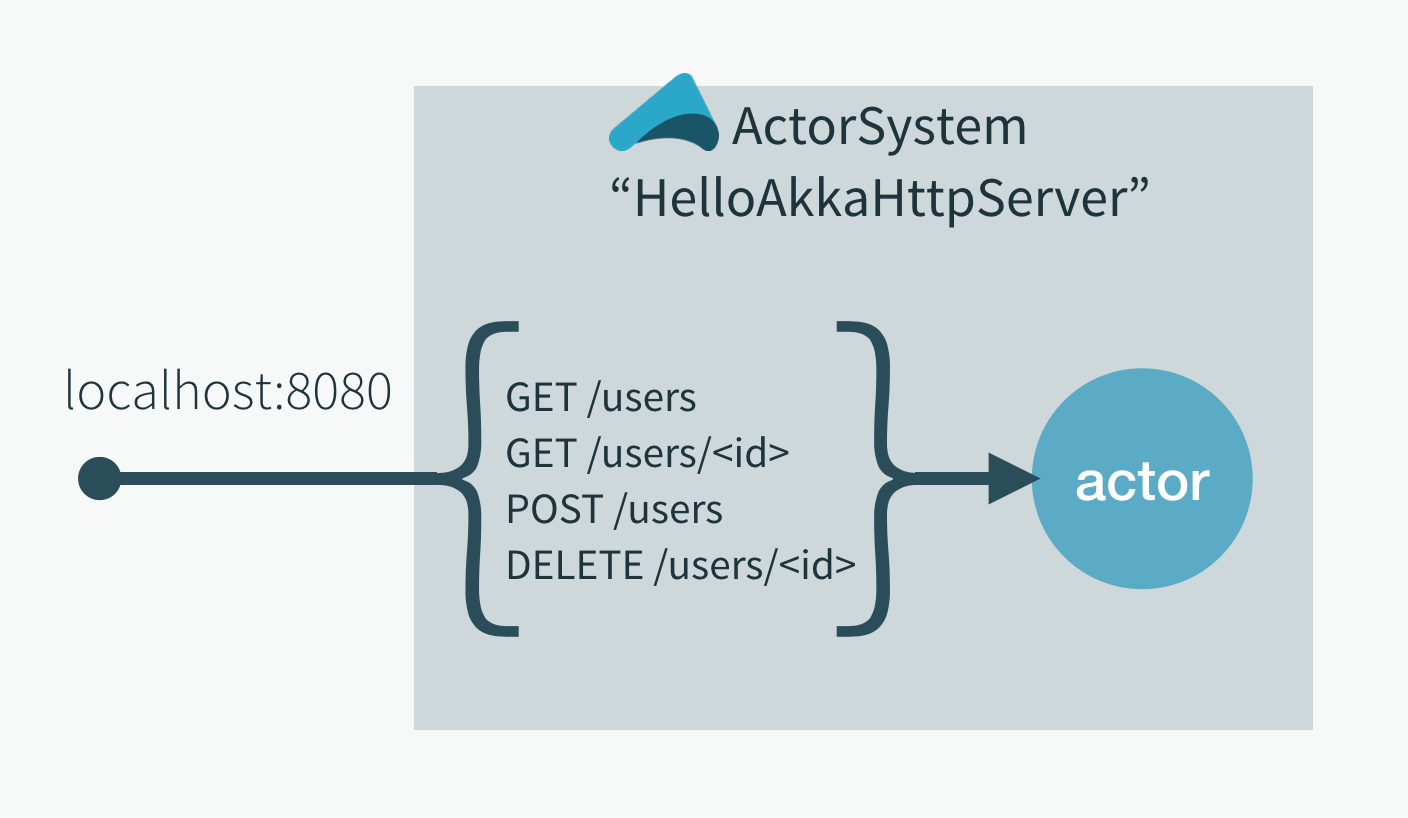
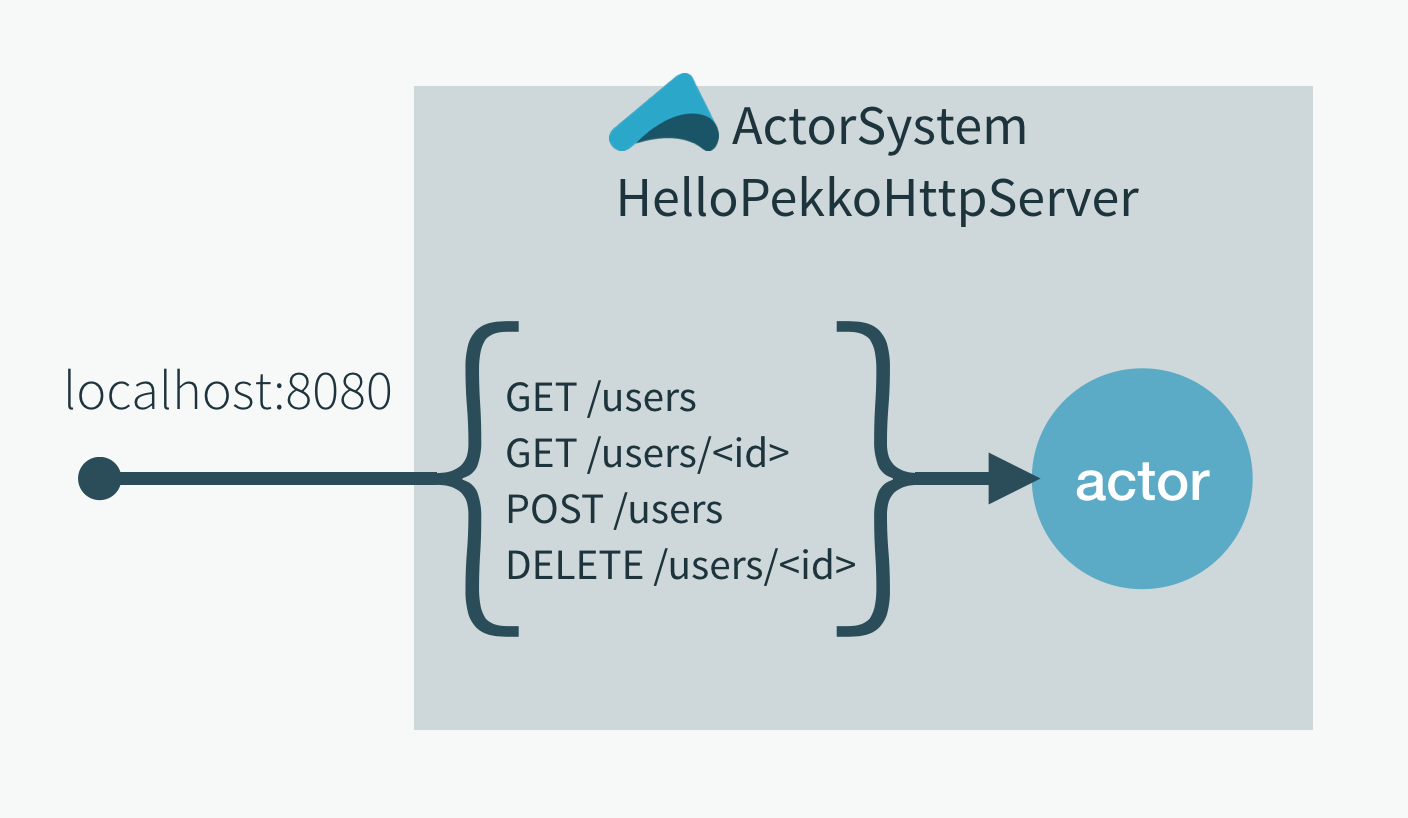
Update guide

Changed region(s): [[0.4375, 0.2139, 0.8125, 0.2751]]

diff --git a/docs/src/main/paradox/index.md b/docs/src/main/paradox/index.md
@@ -21,19 +21,28 @@ You can run the Pekko HTTP example project on Linux, MacOS, or Windows. The only
 
 ## Downloading the example
 
-The Pekko HTTP example for Scala is a zipped project that includes a distribution of the [sbt](http://www.scala-sbt.org) build tool. Download and unzip the example as follows:
+Use [Giter8](http://www.foundweekends.org/giter8/) to download an example. There are two ways you can achieve that.
 
-1. Download the project [zip file](https://example.lightbend.com/v1/download/pekko-http-quickstart-scala?name=pekko-http-quickstart-scala).
-2. Extract the zip file to a convenient location:
+Prerequisites:
+- JDK 11
+- sbt 1.4.x or higher
+- [Giter8](http://www.foundweekends.org/giter8/setup.html) (the second way only)
 
-* On Linux and MacOS systems, open a terminal and use the command `unzip pekko-quickstart-scala.zip`. Note: On OSX, if you unzip using Archiver, you also have to make the sbt files executable by entering the following two commands:
-
+(Without cloning the repo) open a console and run one of the following two commands:
+ ```
+sbt new theiterators/pekko-http-quickstart-scala.g8
+ ```
+or
 ```
-$ chmod u+x ./sbt
-$ chmod u+x ./sbt-dist/bin/sbt
+g8 theiterators/pekko-http-quickstart-scala.g8
 ```
 
-* On Windows, use a tool such as File Explorer to extract the project.
+This template will prompt for the following parameters. Press `Enter` if the default values suit you:
+- `name`: Becomes the name of the project.
+- `scala_version`: Specifies the Scala version for this project.
+- `pekko_version`: Specifies which version of Pekko should be used for this project.
+- `pekko_http_version`: Specifies which version of Pekko HTTP should be used for this project.
+- `organization`: Specifies the organization for this project.
 
 ## Running the example
 

diff --git a/docs/src/main/paradox/intellij-idea.md b/docs/src/main/paradox/intellij-idea.md
@@ -1,7 +1,7 @@
 IntelliJ IDEA
 -------------
 
-[IntelliJ IDEA](https://www.jetbrains.com/idea/) from JetBrains is one of the leading IDEs in the Java/Scala community, and it has excellent support for pekko HTTP. This section of the tutorial describes how to set up, test and run the sample project in IntelliJ.
+[IntelliJ IDEA](https://www.jetbrains.com/idea/) from JetBrains is one of the leading IDEs in the Java/Scala community, and it has excellent support for Pekko HTTP. This section of the tutorial describes how to set up, test and run the sample project in IntelliJ.
 
 ## Setting up the project
 
@@ -30,6 +30,8 @@ Voila the lines are gone!
 In the **Project** pane, right click the `QuickstartApp` source file. Select **Run 'QuickstartApp'**. The output should look like the output in the shell:
 
 ![Running Project](images/idea-running-project.png)
+
+Alternatively, you can run the project through `sbt` as described in the index page of the guide.
 
 ## Tutorial done!
 
